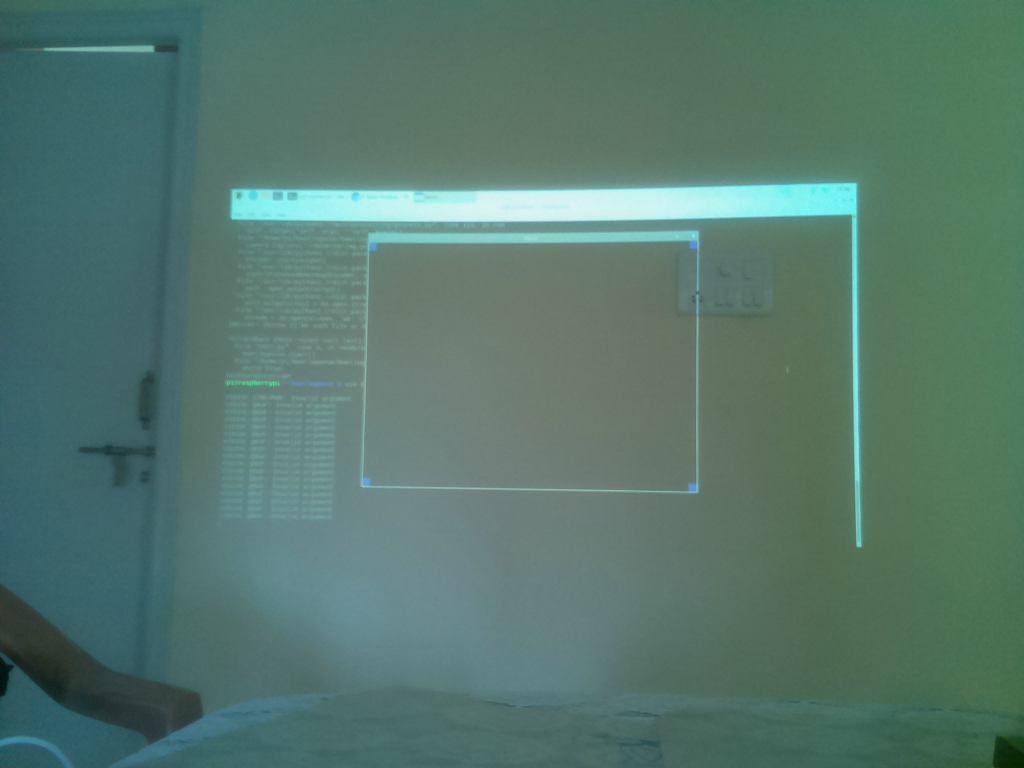
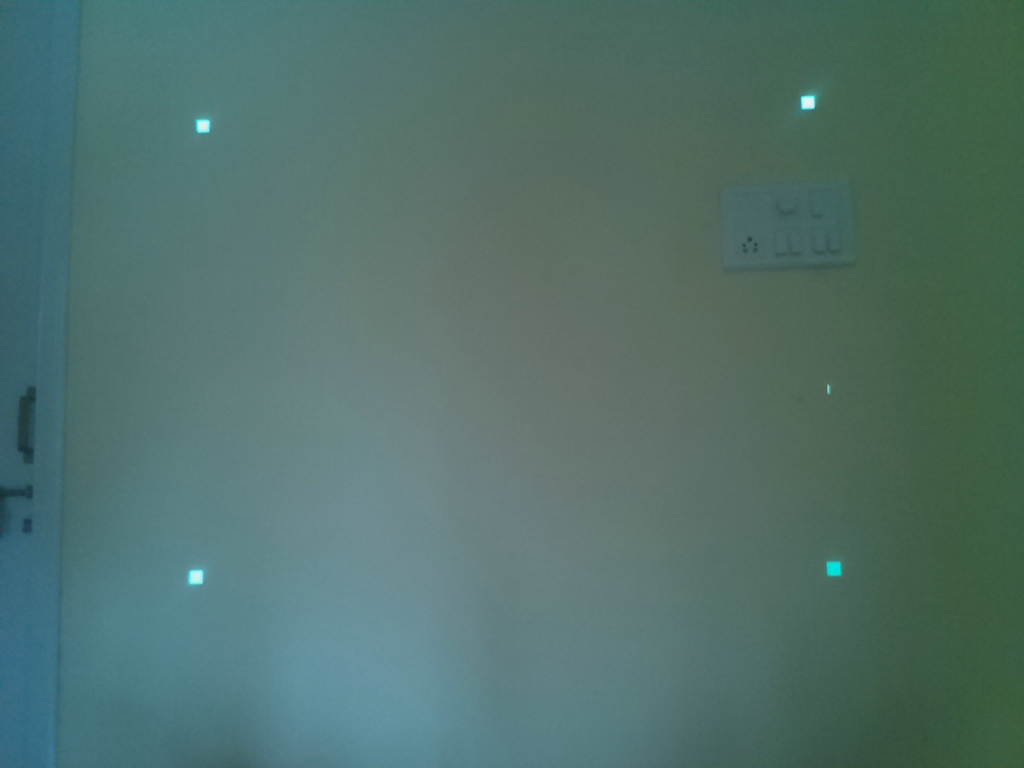
restructure and new image

diff --git a/capture.py b/capture.py
@@ -3,7 +3,7 @@ from picamera import PiCamera
 import time
 import cv2
 
-def capture():
+def capture(queues={}):
     # initialize the camera and grab a reference to the raw camera capture
     camera = PiCamera()
     camera.resolution = (1024,768)
@@ -29,3 +29,14 @@ def capture():
             # if the `q` key was pressed, break from the loop
             if key == ord("q"):
                 break
+
+def screenshot(queues={}):
+    camera = PiCamera()
+    camera.resolution = (1024,768)
+    time.sleep(10)
+
+    camera.capture('/home/pi/Desktop/img.png')
+    print('Image captured')
+
+if __name__ == '__main__':
+    capture()

diff --git a/beetlegoose.py b/beetlegoose.py
@@ -1,0 +1,21 @@
+import os
+import sys
+import multiprocessing as mp
+from render import render
+from capture import capture, screenshot
+
+if __name__ == '__main__':
+    queues = {
+        'rendered_img': mp.Queue(),
+        'captured_img': mp.Queue(),
+        'ball_location': mp.Queue(),
+    }
+    p_render = mp.Process(target=render, name='render_loop', args=(queues,))
+    p_render.start()
+    
+    # capture()
+    p_capture = mp.Process(target=screenshot, name='capture_loop', args=(queues,))
+    p_capture.start()
+    while True:
+        pass
+    # TODO start game

diff --git a/render.py b/render.py
@@ -32,7 +32,7 @@ def draw_calib_rects(pygame, screen, calib_box_size, width, height, calib_frame_
         pygame.draw.rect(screen, NON_WHITE,
                 (0, height-calib_box_size, calib_box_size, calib_box_size))
 
-def render():
+def render(queues={}):
     pygame.init()
     width, height = 1024, 768
     screen = pygame.display.set_mode((width, height), pygame.FULLSCREEN)
@@ -62,3 +62,5 @@ def render():
                     pygame.quit()
                     exit(0)
 
+if __name__ == '__main__':
+    render()
